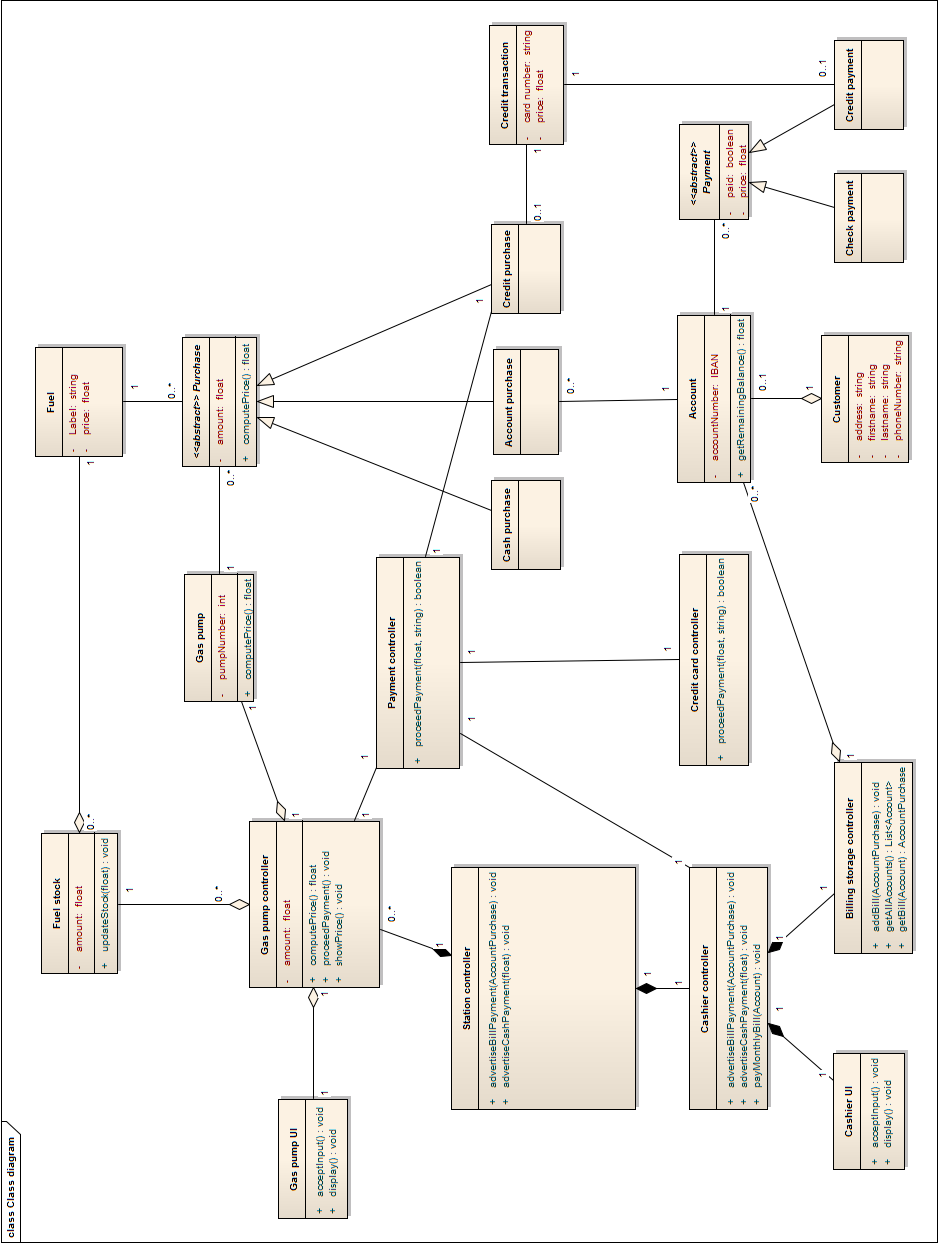
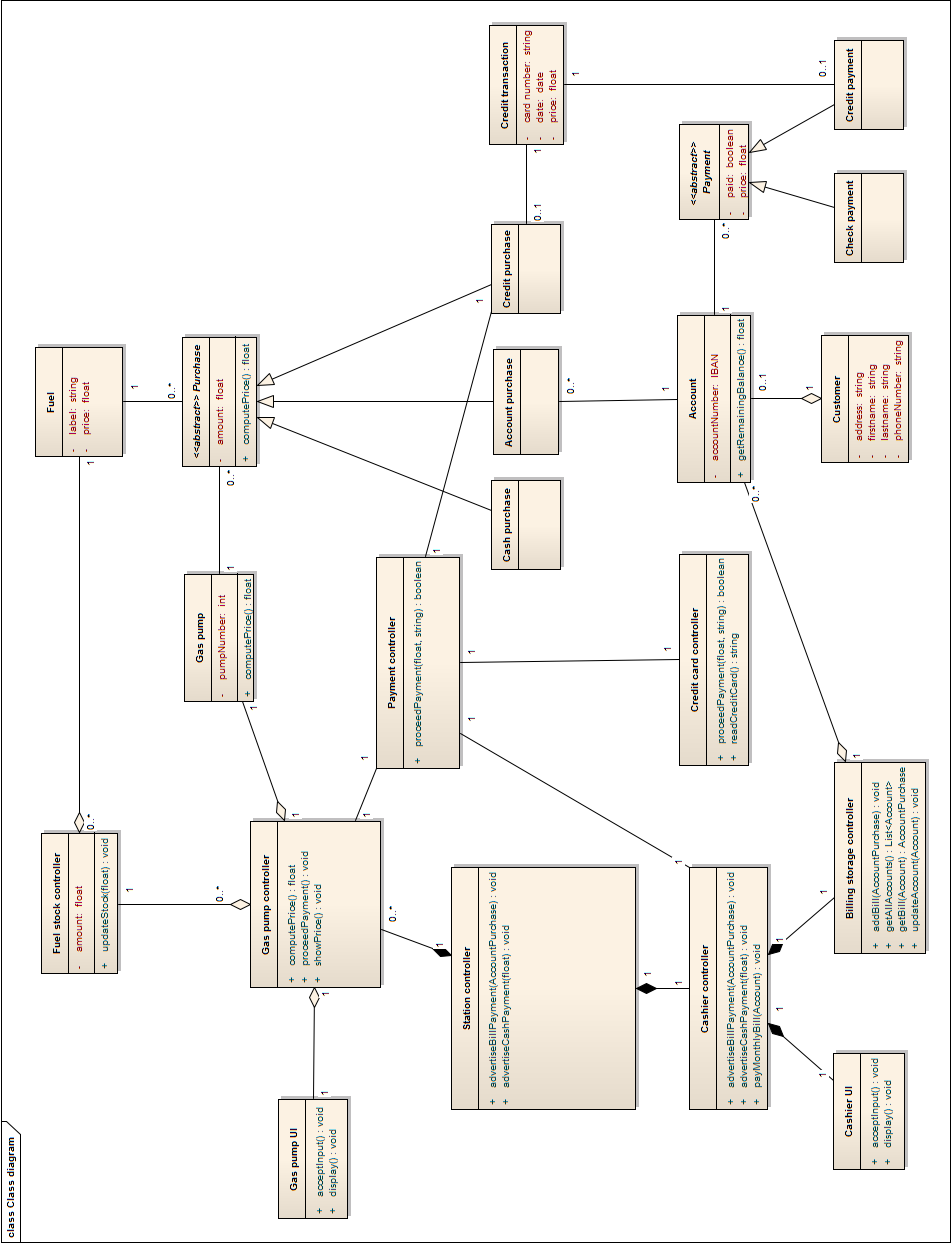
some corrections

diff --git a/Assignment 2/Report/detailed_design.tex b/Assignment 2/Report/detailed_design.tex
@@ -10,7 +10,7 @@
 \subsubsection{Description of classes}
 
 \paragraph{Station controller}
-The station controller is the main controller of the application. It has a list of Gas pump controller and a Cashier controller. 
+The station controller is the main controller of the application. It has a list of Gas pump controllers and a Cashier controller. 
 
 \paragraph{Cashier controller}
 It is responsible for managing all the interaction with the cashier. That's why it has a Cashier UI. It also has a Billing storage controller to be able to retrieve accounts and add bills when the user when to pay by monthly bill.
@@ -23,7 +23,7 @@ This controller manages the accounts that are stored in a database. So it contai
 
 \paragraph{Gas pump controller}
 This controller is responsible for all the interactions with the customer and the fuel stock.
-It contains a gas pump and is responsible for managing it. It has a Gas pump UI to interact with the customer. It also has a Fuel stock so that it can display the price.
+It contains a Gas pump and is responsible for managing it. It has a Gas pump UI to interact with the customer. It also has a Fuel stock so that it can display the price for the specific type of fuel.
 At the end of the transaction, it is also responsible to proceed the payment. That's why it has a reference to a Payment controller.
 
 \paragraph{Gas pump}
@@ -31,11 +31,11 @@ This class represents a real gas pump of the station. It has a method to compute
 It has a list of references to some purchases that were made at that specific gas pump.
 
 \paragraph{Gas pump UI}
-This class is the graphical interface presented to the customer and is responsible for the interactions with the customer. It can display information and accept inputs that it will transmit the its controller.
+This class is the graphical interface presented to the customer and is responsible for the interactions with the customer. It can display information and accept inputs that it will transmit to its controller.
 
 \paragraph{Fuel stock}
 This class represents the current stock available in the tank (amount attribute) of the station for a specific type of fuel. That's why it has a reference to Fuel.
-Its only method is updateStock that receive a volume of fuel consumed or added to the stock and update the inventory database.
+Its only method is updateStock that receives a volume of fuel consumed or added to the stock and updates the inventory database.
 
 \paragraph{Fuel}
 This class is a model representing a type of fuel with its price and label.
@@ -45,9 +45,9 @@ It is an abstract class representing a purchase made by a customer to a specific
 
 \paragraph{Cash purchase, Account purchase and Credit purchase}
 Those three classes all extend the abstract class Purchase.
-The cash purchase just represents a simple cash transaction, with no special attribute.
-The account purchase is linked to an account and represent a purchase paid by monthly bill. 
-A credit purchase is linked to a credit transaction and represent a purchase paid by credit card.
+The Cash purchase just represents a simple cash transaction, with no special attributes.
+The Account purchase is linked to an Account and represents a purchase paid by monthly bill. 
+A Credit purchase is linked to a credit transaction and represents a purchase paid by credit card.
 
 \paragraph{Payment controller}
 This controller is responsible for doing a payment. It has access to the credit card controller and a credit purchase instance that represent the current payment to be done by credit card. Its only method is used by the Gas pump controller to proceed to the payment.
@@ -59,13 +59,14 @@ This controller is responsible for interacting with the external credit card rea
 This model class represents a transaction made by credit card. It has 3 fields: the card number, the price and the date of the transaction.
 
 \paragraph{Account}
-This model class represents the account of a customer. It has an account number and a list of payments. It can be used to compute its remaining balance, i.e. the amount that the customer must still pay. This is done by iterating over the payments list and adding the price of the unpaid payments.
+This model class represents the account of a customer. It has an account number and a list of payments.
+It can be used to compute the remaining balance, i.e. the amount that the customer must still pay. This is done by iterating over the payments list and adding the price of the unpaid payments.
 
 \paragraph{Customer}
 This model class represents a customer with all the needed fields.
 
 \paragraph{Payment}
-This abstract model class represents a payment linked to an account. Its state stored the price and a boolean that says if the payment has already been paid or not.
+This abstract model class represents a payment linked to an account. Its state stores the price and a boolean that indicates if the payment has already been paid or not.
 
 \paragraph{Check payment and Credit payment}
 Those 2 classes extend the abstract Payment class and represent a concrete payment that is either done by check or credit card.
@@ -82,7 +83,7 @@ There are 2 loops in this Uses diagram:
 	\item between \textit{Gas pump UI} and \textit{Gas pump controller}
 	\item between \textit{Cashier UI} and \textit{Cashier controller}
 \end{itemize}
-But this is not really a problem because there are just between a view and its controller. It makes senses that the controller uses the view to update it and that the view uses the controller to notify it when an user's action occurs. We think that they can no be eliminated.
+But this is not really a problem because there are just between a view and the associated controller. It makes sense that the controller uses the view to update it and that the view uses the controller to notify it when an user's action occurs. We think that they can no be eliminated.
 
 
 \subsection{Design Patterns}
@@ -133,4 +134,6 @@ The skeletons are written in Java.
 \lstinputlisting[language=java, inputencoding=utf8]{compositePattern.java}
 
 We can see in the snippet of code above where the new methods are implemented.
-But the existing methods (the getters and setters for the bank account in this case) are implemented in the SingleAccount class. If we had other pre-existing methods in the Account, they would be implemented in the new SingleAccount class and also in the CompanyAccount. To call those methods, the developer should have a reference to the concrete object, not the new Account interface (because it does not define other methods than \textit{getRemainingBalance()}.
+But the existing methods (the getters and setters for the bank account in this case) are implemented in the SingleAccount class.
+If we had other pre-existing methods in the Account, they would be implemented in the new SingleAccount class and also in the CompanyAccount.
+To call those methods, the developers should have a reference to the concrete object, not the new Account interface (because it does not define other methods than \textit{getRemainingBalance()}.

diff --git a/Assignment 2/Report/Report.tex b/Assignment 2/Report/Report.tex
@@ -109,31 +109,31 @@
 
 \subsection{Roles and interactions of all components}
 
-Our system is composed of three parts. The first is the station controller which controls all the station. The second is the Gas Pump which is about the logistic of the pump. And finally, the Management part which allows to customers to pay or to manage the billing.\\
+Our system is composed of three parts. The first is the Station controller which controls all the station. The second is the Gas Pump which is about the logistic of the pump. And finally, the Management part which allows to customers to pay or to manage the billing.\\
 
 
-We use also  a model-view-controller in our design. We distinct the application into three parts :
+We use also a model-view-controller pattern in our design. We distinct the application into three parts :
 \begin{enumerate}
-\item{Model :} Manipulation of data
+\item{Model :} Representation of the world
 \item{View :} Interaction with the users
 \item{Controller :} Management of the different events in the program
 \end{enumerate}
 
 \subsubsection*{Station controller}
-The Station controller represents the global controller of all the gaz station.
+The Station controller represents the global controller of all the gas station.
 
 
 \subsubsection*{Gas Pump}
 The Gas pump represents the controller of a gas pump.
 \begin{itemize}
-\item{Gaz pump UI :} Interface with which the user interacts.
-\item{Gaz pump controller :} Controls the different interaction between the system (Station controller) and the different elements of the Gas pumps.
+\item{Gas pump UI :} Interface with which the user interacts.
+\item{Gas pump controller :} Controls the different interaction between the system (Station controller) and the different elements of a Gas pump.
 \item{Fuel stock controller :} Manages the stock of fuel of the station.
 \item{Fuel :} Represents a specific type of fuel.
-\item{Gaz pump :} Delivers the gaz to the costumers and compute the accounting. 
+\item{Gas pump :} Delivers the gas to the costumers and compute the accounting. 
 \end{itemize}
 \subsubsection*{Management}
-The Management represents the management part of the application in which the payment for example while be manage.
+The Management represents the management part of the application in which the payment for example will be managed.
 \begin{itemize}
 \item{Cashier UI :} Interface with which the cashier interacts.
 \item{Cashier controller :} Allows the interaction between the cashier system and the global system (Station controller).

diff --git a/Assignment 2/Report/observatorPattern.java b/Assignment 2/Report/observatorPattern.java
@@ -2,7 +2,7 @@ public interface Observer {
   public void notify(Observable obs);
 }
 
-public class FuelStock implements Observer {
+public class FuelStockController implements Observer {
   // ...
   public void notify(Observable obs){
     GasPumpController ctrl = (GasPumpController) obs;
